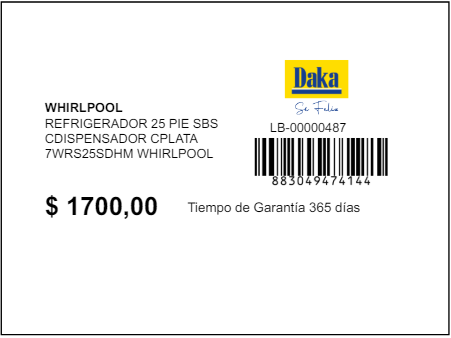
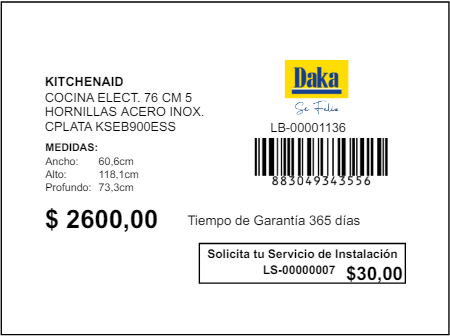
v1.2.3 NOTAS DEL PARCHE: Se preparo en su totalidad para ser validadno en un ambiente qah y es la version del qah actual que incluye las medidas

diff --git a/server/src/controllers/priceTalkerPdfNewGrande.controller.js b/server/src/controllers/priceTalkerPdfNewGrande.controller.js
@@ -552,6 +552,7 @@ const bigNewPriceTalker = async (
           boxPositionY + priceTalkerDescriptionPositionY, // 2,5 CM
           {
             width: priceTalkerWidthText,
+            height: 40,
             align: "left",
           }
         );
@@ -931,6 +932,7 @@ const bigNewPriceTalker = async (
           boxPositionY + priceTalkerDescriptionPositionY + boxHeight, // 2,5 CM
           {
             width: priceTalkerWidthText,
+            height: 40,
             align: "left",
           }
         );
@@ -1319,6 +1321,7 @@ const bigNewPriceTalker = async (
           boxPositionY + priceTalkerDescriptionPositionY + boxHeight, // 2,5 CM
           {
             width: priceTalkerWidthText,
+            height: 40,
             align: "left",
           }
         );

diff --git a/server/ecosystem.config.js b/server/ecosystem.config.js
@@ -4,11 +4,11 @@ module.exports = {
       script: "./src/index.js",
       env: {
         NODE_ENV: "development",
-        VERSION: "1.2.2",
+        VERSION: "1.2.3",
       },
       env_production: {
         NODE_ENV: "production",
-        VERSION: "1.2.2",
+        VERSION: "1.2.3",
       }
     }]
   }

diff --git a/client/src/views/Login.vue b/client/src/views/Login.vue
@@ -91,7 +91,7 @@ const login = async () => {
         Iniciar sesión
       </v-btn>
 
-      <label class="version-label">v1.2.2</label>
+      <label class="version-label">v1.2.3</label>
     </v-card>
   </form>
 </template>
